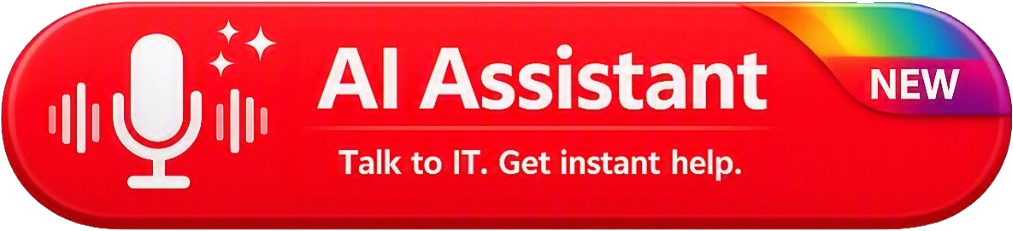
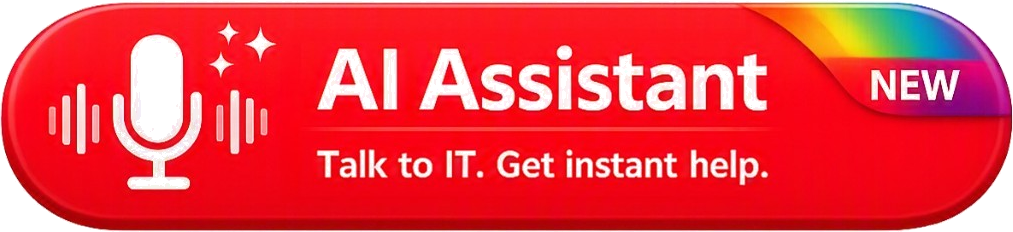
Fix caller-name spelling handling and refresh the Start button art.

diff --git a/static/app.js b/static/app.js
@@ -125,6 +125,8 @@
     solution_summary: "",
     resolved: null,
   };
+  // Letter-by-letter spelling heard in assistant speech (authoritative over mishears).
+  let spelledCallerName = "";
   let transcriptionDeployment = null;
   let turnDetectionConfig = {
     type: "server_vad",
@@ -888,6 +890,7 @@
       solution_summary: "",
       resolved: null,
     };
+    spelledCallerName = "";
     transcriptLoggingEnabled = !!transcriptId;
     transcriptionDeployment = tokenData.transcription_deployment
       ? String(tokenData.transcription_deployment)
@@ -1130,7 +1133,11 @@
                 parameters: {
                   type: "object",
                   properties: {
-                    caller_name: { type: "string" },
+                    caller_name: {
+                      type: "string",
+                      description:
+                        "Confirmed caller name using the latest spelling/correction if known.",
+                    },
                     issue_summary: { type: "string" },
                     symptoms: { type: "string" },
                     already_tried: { type: "string" },
@@ -1159,7 +1166,9 @@
                     reason: { type: "string" },
                     caller_name: {
                       type: "string",
-                      description: "Confirmed caller name, or unknown.",
+                      description:
+                        "Confirmed caller name (latest spelling/correction), or unknown. " +
+                        "If they spelled letters (e.g. C-A-L-V-I-N), use that form (Calvin), not an earlier mishear (Kelvin).",
                     },
                     problem_summary: {
                       type: "string",
@@ -1551,6 +1560,7 @@
             }
             lastAssistantTranscript = assistantText;
             updateBookingOfferStageFromTranscript(assistantText);
+            noteSpelledNameFromAssistantSpeech(assistantText);
             appendTranscript("ASSISTANT", assistantText, "speech");
             // Model sometimes speaks goodbye but forgets end_call
             // (call-20260913-132902-a0d2) — hang up from closing farewell speech.
@@ -3447,12 +3457,85 @@
     }
   }
 
+  function noteSpelledNameFromAssistantSpeech(speechText) {
+    if (!speechText) {
+      return;
+    }
+    // Only letter-by-letter: "spelled C A L V I N" / "spelling C-A-L-V-I-N".
+    // Do NOT match phrases like "spelling you provided" (call-20260916-170710-b05f).
+    // Do NOT pull the leading letter of the surname (call-20260916-171047-e98d:
+    // "spelled C A L V I N, Chen" must not become Calvinc).
+    const Match = String(speechText).match(
+      /(?:spell(?:ed|ing)?)\s*(?:as|is|:|,)?\s*([A-Za-z](?:(?:\s*[,\-]+\s*|\s+)[A-Za-z]){1,24})(?![A-Za-z])/i
+    );
+    if (!Match) {
+      return;
+    }
+    const Tokens = Match[1].split(/[\s,\-]+/).filter(Boolean);
+    if (
+      Tokens.length < 2 ||
+      Tokens.length > 24 ||
+      !Tokens.every(function (Token) {
+        return /^[A-Za-z]$/.test(Token);
+      })
+    ) {
+      return;
+    }
+    const Letters = Tokens.join("");
+    const Spelled =
+      Letters.charAt(0).toUpperCase() + Letters.slice(1).toLowerCase();
+    spelledCallerName = Spelled;
+    const Current = (ticketDraft.caller_name || "").trim();
+    if (!Current) {
+      ticketDraft.caller_name = Spelled;
+    } else {
+      const Parts = Current.split(/\s+/);
+      if (Parts[0].toLowerCase() !== Spelled.toLowerCase()) {
+        Parts[0] = Spelled;
+        ticketDraft.caller_name = Parts.join(" ");
+      }
+    }
+    pushDebug("ticket:name_spelling=" + ticketDraft.caller_name);
+    console.log(
+      "[INFO] Name spelling correction from speech:",
+      ticketDraft.caller_name
+    );
+  }
+
+  function resolveCallerNameForTicket(parsedName) {
+    const FromTool = parsedName ? String(parsedName).trim() : "";
+    if (spelledCallerName) {
+      if (FromTool) {
+        const Parts = FromTool.split(/\s+/);
+        if (Parts[0].toLowerCase() !== spelledCallerName.toLowerCase()) {
+          Parts[0] = spelledCallerName;
+          return Parts.join(" ");
+        }
+        return FromTool;
+      }
+      return (ticketDraft.caller_name || spelledCallerName).trim();
+    }
+    return FromTool || (ticketDraft.caller_name || "").trim();
+  }
+
   function mergeTicketDraft(partial) {
     if (!partial || typeof partial !== "object") {
       return;
     }
     if (partial.caller_name) {
-      ticketDraft.caller_name = String(partial.caller_name).trim();
+      const Incoming = String(partial.caller_name).trim();
+      // Prefer letter-spelling correction over a later misheard tool arg.
+      if (spelledCallerName) {
+        const Parts = Incoming.split(/\s+/);
+        if (Parts[0].toLowerCase() !== spelledCallerName.toLowerCase()) {
+          Parts[0] = spelledCallerName;
+          ticketDraft.caller_name = Parts.join(" ");
+        } else {
+          ticketDraft.caller_name = Incoming;
+        }
+      } else {
+        ticketDraft.caller_name = Incoming;
+      }
     }
     if (partial.problem_summary) {
       ticketDraft.problem_summary = String(partial.problem_summary).trim();
@@ -3478,9 +3561,7 @@
       resolved: ticketDraft.resolved,
     };
     if (parsed && typeof parsed === "object") {
-      if (parsed.caller_name) {
-        fields.caller_name = String(parsed.caller_name).trim();
-      }
+      fields.caller_name = resolveCallerNameForTicket(parsed.caller_name);
       if (parsed.problem_summary) {
         fields.problem_summary = String(parsed.problem_summary).trim();
       }
@@ -3495,10 +3576,15 @@
           fields.resolved = lowered === "true";
         }
       }
+    } else if (spelledCallerName) {
+      fields.caller_name = resolveCallerNameForTicket(fields.caller_name);
     }
     // Model often dumps the whole close into reason and skips structured fields.
     if (!fields.solution_summary && reason && reason !== "done") {
       fields.solution_summary = String(reason).trim();
+    }
+    if (!fields.problem_summary && reason) {
+      fields.problem_summary = String(reason);
     }
     const blob = (
       (fields.solution_summary || "") +
@@ -3523,6 +3609,12 @@
       ) {
         fields.resolved = true;
       }
+    }
+    if (fields.resolved !== true && fields.resolved !== false) {
+      fields.resolved = false;
+    }
+    if (!fields.caller_name) {
+      fields.caller_name = "unknown";
     }
     return fields;
   }

diff --git a/templates/index.html b/templates/index.html
@@ -33,8 +33,8 @@
             class="call-btn-art"
             src="{{ url_for('static', filename='ai-assistant-btn.png', v=style_css_version) }}"
             alt="AI Assistant — Talk to IT. Get instant help."
-            width="1024"
-            height="243"
+            width="1013"
+            height="232"
           />
         </button>
 

diff --git a/app.py b/app.py
@@ -170,7 +170,10 @@ DIAGNOSE_TOOL = {
         "properties": {
             "caller_name": {
                 "type": "string",
-                "description": "Confirmed caller name, if known.",
+                "description": (
+                    "Confirmed caller name using the latest spelling/correction if known. "
+                    "Letter-by-letter spelling overrides an earlier phonetic guess."
+                ),
             },
             "issue_summary": {
                 "type": "string",
@@ -240,7 +243,12 @@ END_CALL_TOOL = {
             },
             "caller_name": {
                 "type": "string",
-                "description": "Caller's confirmed name, or unknown if never collected.",
+                "description": (
+                    "Caller's confirmed name using the latest spelling/correction, "
+                    "or unknown if never collected. If the caller spelled letters "
+                    "(e.g. C-A-L-V-I-N), rebuild from those letters (Calvin) — do not "
+                    "keep an earlier misheard form (Kelvin)."
+                ),
             },
             "problem_summary": {
                 "type": "string",

diff --git a/project_memory.md b/project_memory.md
@@ -22,11 +22,12 @@ Standalone POC for ??Talk to Tech Cafe AI?? browser voice Help Desk using realti
 - Turn detection: `server_vad` with `create_response` + `interrupt_response`. Session is created with both **false** so the greeting cannot be server-cancelled; after greeting audio ends the browser `session.update`s them back on (from `AZURE_INTERRUPT_RESPONSE` / token config) and clears the input buffer.
 - Opening greeting: fixed `Hello, Tech Cafe IT Help Desk.` + one of 5 similar second lines chosen randomly per call in `app.js` (avoids immediate repeat via sessionStorage).
 - Agent behavior: loaded from `techcafe_prompt.txt` into session instructions (not hard-coded in JS).
-- UI: matches Tech Cafe Booking Portal look ? red gradient page, white rounded shell, red header/footer. Start button uses artwork `static/ai-assistant-btn.jpg` (mic + **AI Assistant** + “Talk to IT. Get instant help.” + rainbow NEW). **End Call** remains the CSS red gradient pill. Mic opens only after Start and is released on hang-up. Connecting ring: North American PSTN **ringback** (440+480 Hz, 2s on / 4s off); stops just before Hello. Greeting protected by **mic hold** + `turn_detection: null` until playback ends; then VAD/interrupt restored. `enableLocalPlayback` re-calls `remoteAudio.play()`.
+- UI: matches Tech Cafe Booking Portal look ? red gradient page, white rounded shell, red header/footer. Start button uses artwork `static/ai-assistant-btn.png` (mic + **AI Assistant** + “Talk to IT. Get instant help.” + rainbow NEW; white surround stripped to alpha). **End Call** remains the CSS red gradient pill. Mic opens only after Start and is released on hang-up. Connecting ring: North American PSTN **ringback** (440+480 Hz, 2s on / 4s off); stops just before Hello. Greeting protected by **mic hold** + `turn_detection: null` until playback ends; then VAD/interrupt restored. `enableLocalPlayback` re-calls `remoteAudio.play()`.
 - VM-only extras: Start click kickstarter (`window.__tcKick`) remains on the VM copy of `app.js` / HTML; local uses normal `app.js` click binding.
 - Control WSS (`/ws/control`): client ping every **8s** + auto-reconnect on close. Console `Invalid frame header` usually means reverse proxy idle-closed the socket; if reconnect still drops mid-call, raise proxy WebSocket idle timeout on `ai.mymsngroup.com`.
 
 ## Important assumptions
+- **OS timezone:** VM set to `Asia/Hong_Kong` (HKT, GMT+8) on 2026-09-16 (was UTC). Transcript/ticket `datetime.now()` stamps follow local time after service restart.
 - Azure Realtime deployment exists and region supports Realtime.
 - Local Windows + Chrome/Edge for mic/WebRTC.
 - ServiceNow and Tech Cafe booking remain simulated in the prompt.
@@ -57,7 +58,7 @@ Standalone POC for ??Talk to Tech Cafe AI?? browser voice Help Desk using realti
   - Transcript APIs: `POST /api/transcript/start|append|end`
 - Voice-path: Azure-documented browser WebRTC (`GET /token` ??browser POSTs SDP to Azure with ephemeral key). Data channel `oai-events`, `server_vad`, level meter; **mic + speaker dropdowns** under AI Assistant (persist in localStorage; **System default** follows Windows *currently selected for calls* via the `communications` role when present, else multimedia `default` ? not a pinned hardware id). Speaker list uses `setSinkId` when supported (hidden if not).
 - Desktop Bluetooth / OS default I/O: with System default, mic prefers Windows **Default Communications Device**, then falls back to OS default. Playback uses `communications` then `default` so laptop Speakers can remain the multimedia default while the headset currently selected for calls is used. Explicit dropdown picks still force that deviceId. Ringtone + AI share one sink. HFP Bluetooth call audio is inherently narrowband vs A2DP/music.
-- Call quality / barge-in: on `speech_started` cancel active response, clear output audio, truncate heard audio, mark response IDs cancelled so stale playback/tool `response.create` cannot resume. Interrupted turns are CANCELLED not paused. VAD silence default **900ms**; **VAD threshold 0.8** (raised from 0.65 after noisy-room retest still false-triggered; higher = less noise-sensitive). Do not mute mic track (Bluetooth-safe).
+- Call quality / barge-in: on `speech_started` cancel active response, clear output audio, truncate heard audio, mark response IDs cancelled so stale playback/tool `response.create` cannot resume. Interrupted turns are CANCELLED not paused. VAD silence default **900ms**; **VAD threshold 0.9** (was 0.8; higher = less noise-sensitive). Do not mute mic track (Bluetooth-safe). **Do not set threshold to 1.0** — Azure `server_vad` then never detects speech (call-20260916-074755-9498: Hello only, no USER speech_started, no reply); 1.0 → 0.8 → 0.9 on 2026-09-16.
 - Prompt: full **VOICE INTERACTION QUALITY** block (OpenAI-style spoken-conversation rules) plus Tech Cafe triage/tools; stop phrases include Got it / I know / ??? / ?????? never finish interrupted instructions; respond only to newest user intent.
 - AD lockout routing: clear AD/account lockout ??Path B ServiceNow immediately; ban fake ??checking/unlocking on the backend / please wait??stalls. Prompt + GPT-5.5 diagnose coaching updated.
 - Long silence during triage was mainly GPT-5.5 `/api/diagnose` latency (~45??5s historically) after the voice agent said it would ??check?? mitigated with prompt caching/warm-up + explicit hold / continue-to-hold speech (not by removing the expert tool).
@@ -65,4 +66,6 @@ Standalone POC for ??Talk to Tech Cafe AI?? browser voice Help Desk using realti
 - Language: match the caller's **latest spoken CONTENT** language/dialect (English / Japanese / Mandarin / Cantonese). Detect from sentence grammar/particles ? **ignore English or romanized names** (Willis Chan + Mandarin issue => Mandarin). Do not lock English from greeting/name; IT brand words inside Chinese/Japanese do not count as English. HK bias: do not default all Chinese to Cantonese.
 - Barge-in accept UX: if caller interrupts a Tech Cafe/booking offer with yes/okay (`call-20260913-114515-c241`, `call-20260913-120311-cffc`), advance to offer/confirm the simulated slot ??do not restate the same recommendation. Client coaches this on speech_stopped when `bookingOfferStage` is techcafe_pitch/slot_offer (kills auto-reply, one pinned voice reply).
 - **Ring-but-no-Hello (2026-09-16):** Greeting holds mic (`track.enabled=false`) so Azure cannot barge into Hello. Outbound stats treated silent+0-byte uplink as `dead_uplink` and `after_remote_audio` recovered when meter &lt;2% — false positives that looped `getUserMedia`/`replaceTrack` while ICE was still `connecting` (console: `call-20260916-004506-227e`). Fix: skip mic recover for non-dead-track reasons while `greetingMicHeld || !callAudioReady`; do not count intentional silence toward dead_uplink; after remote audio during greeting only `ensureLiveMicOnSender`.
-- **User ASR missing after enable (call-20260916-025855-0907):** Header showed `user_asr: gpt-4o-mini-transcribe` but no USER lines. Cause: `enablePostGreetingTurnDetection` `session.update` set only `turn_detection` and Azure replaced `audio.input`, clearing `transcription` right after Hello. Fix: re-include `transcription.model` on that update; log `input_audio_transcription.failed`.
+- **Name spelling vs ticket (call-20260916-075144-c395):** Caller spelled C-A-L-V-I-N but voice still said Kelvin and `end_call` wrote `Kelvin Chen`. Prompt now treats letter spelling as authoritative; tool `caller_name` descriptions updated; client parses "spelled C A L V I N" from assistant speech and overrides ticket first name (`Calvin Chen`).
+- **False spelling parse (call-20260916-170710-b05f):** Phrase "spelling you provided" was misread as letters → ticket `Youprovided Chen`. Parser now requires true letter-by-letter tokens only (each token one letter).
+- **Surname letter bleed (call-20260916-171047-e98d):** "spelled C A L V I N, Chen" captured the C of Chen → `Calvinc`. Letter-run now ends with `(?![A-Za-z])` so multi-letter surname words stop the parse.
